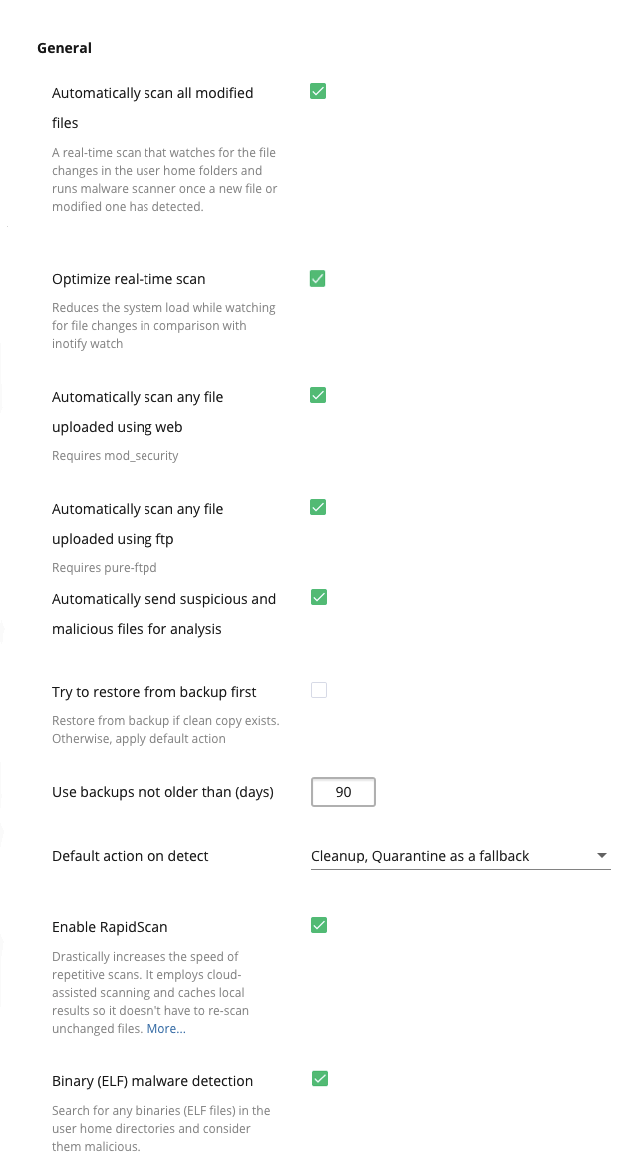
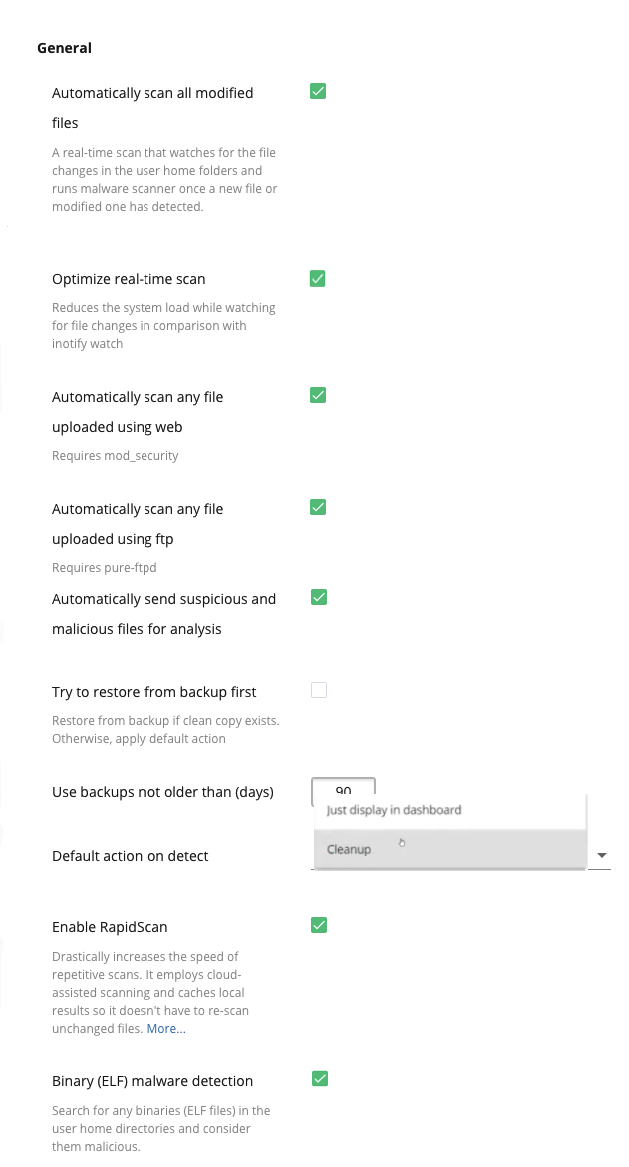
PT-1946: Imunify360 v.5.4 docs update

Changed region(s): [[0.4833, 0.6787, 0.9364, 0.7712]]

diff --git a/docs/config_file_description/README.md b/docs/config_file_description/README.md
@@ -93,14 +93,15 @@ Changes of config files will be applied automatically. You don’t need to resta
 <tr><td><span class="notranslate">try_restore_from_backup_first: False</span></td>
 <td># allows to enable (<span class="notranslate">True</span>) or disable (<span class="notranslate">False</span> – the default value) automatic malicious file restore from backup if a clean copy exists,
 otherwise <span class="notranslate"><em>default_action</em></span> is applied</td></tr>
-<tr><td><span class="notranslate">default_action: cleanup_or_quarantine</span></td>
+<tr><td><span class="notranslate">default_action: cleanup</span></td>
 <td># default action on malicious file detected.<br>
 Available options:
-<ul><li><span class="notranslate">quarantine</span> – do not delete and move to quarantine</li>
-<li><span class="notranslate">notify</span> – do not delete and send email notification</li>
-<li><span class="notranslate">delete</span> – delete malicious file</li>
-<li><span class="notranslate">cleanup</span> – cleanup malicious file</li>
-<li><span class="notranslate">cleanup_or_quarantine</span> (default) – choose what to do with a malicious file</li></ul></td></tr>
+<ul>
+<li><span class="notranslate"><b>notify</b></span> – just display in dashboard</li>
+<li><span class="notranslate"><b>cleanup</b></span> – cleanup malicious file (default)</li>
+<li><span class="notranslate">quarantine</span> – do not delete and move to quarantine (available only via CLI)</li>
+<li><span class="notranslate">delete</span> – delete malicious file (available only via CLI)</li>
+<li><span class="notranslate">cleanup_or_quarantine</span> choose what to do with a malicious file (available only via CLI)</li></ul></td></tr>
 <tr><td><span class="notranslate">enable_scan_inotify: True</span></td>
 <td># enable (<span class="notranslate">True</span> (default)) or disable (<span class="notranslate">False</span>) real-time scanning for modified files using <a href="https://en.wikipedia.org/wiki/Inotify" target="_blank">inotify</a> library</td></tr>
 <tr><td><span class="notranslate">enable_scan_pure_ftpd: True</span></td>

diff --git a/docs/dashboard/README.md b/docs/dashboard/README.md
@@ -1612,11 +1612,12 @@ Read [CXS integration](/ids_integration/#cxs-integration) documentation carefull
 * <span class="notranslate">_Try to restore from backup first_</span> – allows to restore file as soon as it was detected as malicious from backup if a clean copy exists. If a clean copy does not exist or it is outdated, default action will be applied. See also <span class="notranslate">[CloudLinux Backup](/dashboard/#backups)</span>.
 * <span class="notranslate">_Use backups not older than (days)_</span> – allows to set the a maximum age of a clean file.
 * <span class="notranslate">_Default action on detect_</span> – configure Malware Scanner actions when detecting malicious activity:
-  * <span class="notranslate">Delete permanently</span>
-  * <span class="notranslate">Quarantine file</span>
   * <span class="notranslate">Just display in dashboard</span>
-  * <span class="notranslate">Cleanup</span>
-  * <span class="notranslate">Cleanup, Quarantine as a fallback</span>
+  * <span class="notranslate">Cleanup</span> (default)
+
+  :::warning Warning
+  Starting from Imunify360 v.5.4, the <span class="notranslate">_Delete permanently_</span>, the <span class="notranslate">_Quarantine file_</span>, and the <span class="notranslate">_Cleanup, Quarantine as a fallback_</span> options are available only [via CLI](/config_file_description/). They will be removed completely in Imunify360 v.5.8. For more information see [this blog post](https://blog.imunify360.com/file-quarantine-is-no-longer-effective).
+  :::
 
 
 :::tip Note

diff --git a/docs/features/README.md b/docs/features/README.md
@@ -687,7 +687,7 @@ Occurs when the Proactive Defense has blocked malicious script.
 Click <span class="notranslate">_Save changes_</span> at the bottom to apply all changes.
 
 
-## Malware Database Scanner (MDS) <Badge text="Beta" type="warning"/> <Badge text="5.1"/>
+## Malware Database Scanner (MDS)
 
 <span class="notranslate">Malware Database Scanner (MDS)</span> is designed to solve all malware related problems in the database.
 
